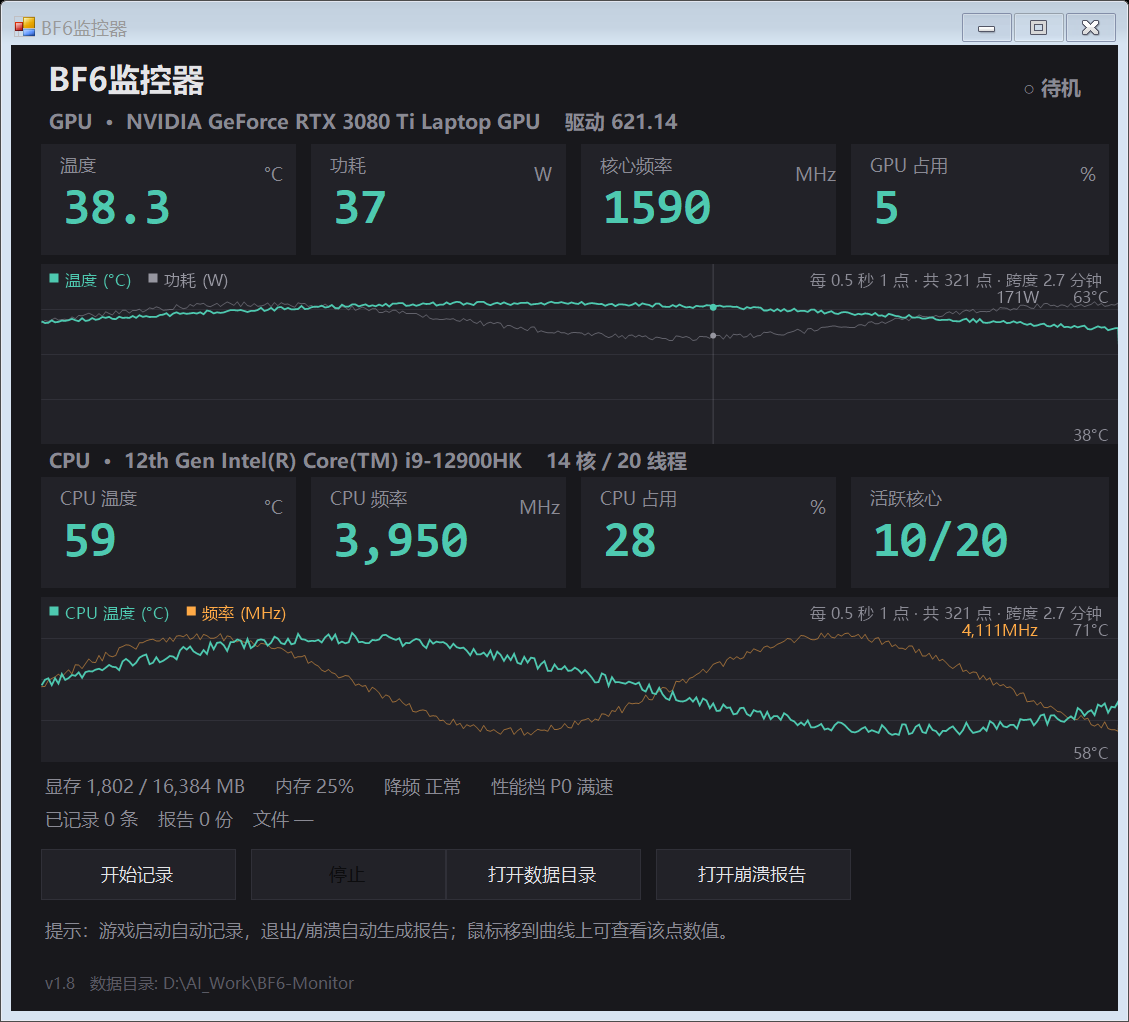
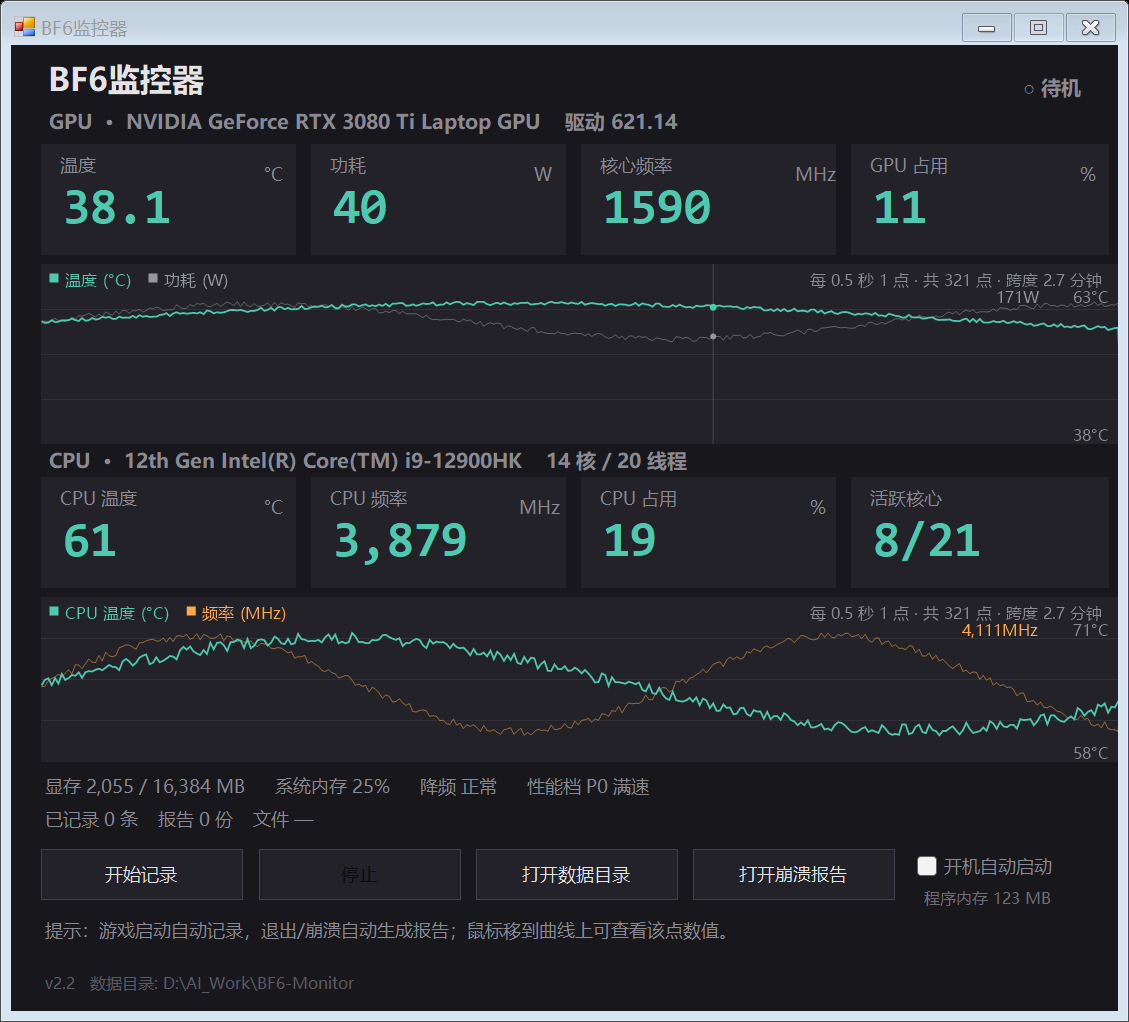
feat: v2.2 - 按钮对齐、开机自动启动、程序内存显示
- 四个按钮改为等宽等距（135px，间隔 145px）
- 右下角新增「开机自动启动」复选框，写入 HKCU Run 键
- 右下角实时显示本程序内存占用
- 底部「内存」改名为「系统内存」，避免与程序内存混淆

diff --git a/README.md b/README.md
@@ -1,4 +1,4 @@
-# BF6监控器
+# BF6监控器
 
 > 战地6 运行时 GPU / CPU 实时监控与崩溃取证工具 —— 专治 `DXGI_ERROR_DEVICE_HUNG` 这类 DX 报错。
 
@@ -236,7 +236,9 @@ BF6Monitor.ps1 -Shot out.png       # 离屏截图
 程序必须开着才有效。没开的话只能用 `tools\collect-forensics.ps1` 事后捞事件日志（没有秒级遥测）。
 
 **Q: 怎么开机自启**
-把桌面快捷方式拖进 `%APPDATA%\Microsoft\Windows\Start Menu\Programs\Startup\`。
+勾选主界面右下角的「开机自动启动」即可，会写入 `HKCU\Software\Microsoft\Windows\CurrentVersion\Run`，
+开机后自动最小化运行并开始记录。取消勾选就移除。
+（不需要手动往启动文件夹拖快捷方式了）
 
 ---
 
